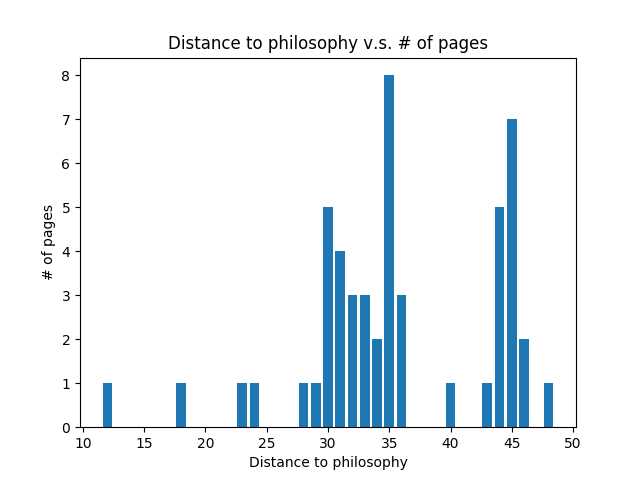
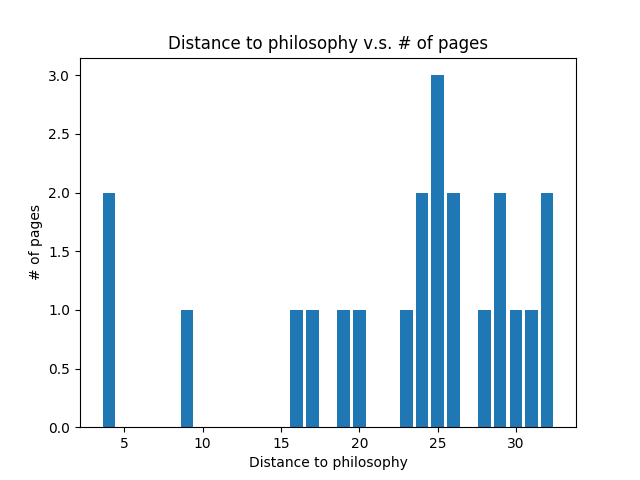
computersci and culture jsons

diff --git a/wiki_trick.py b/wiki_trick.py
@@ -14,7 +14,7 @@ PREFIX = "https://en.wikipedia.org" # used to assist generating next visiting ur
 PHILOSOPHY = "https://en.wikipedia.org/wiki/Philosophy" # target page
 RANDOM_URL = "http://en.wikipedia.org/wiki/Special:Random" # this url is found by using Chrome developer mode
 sports_words = []
-INTERESTED = "animals"
+INTERESTED = "culture"
 with open( './txts/' + INTERESTED + '.txt', 'r') as f:
     for line in f.readlines():
         word = line.strip('\n')
